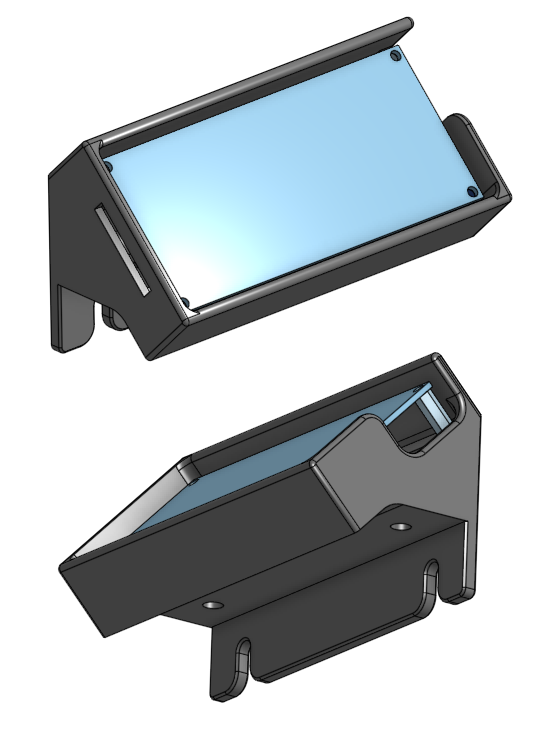
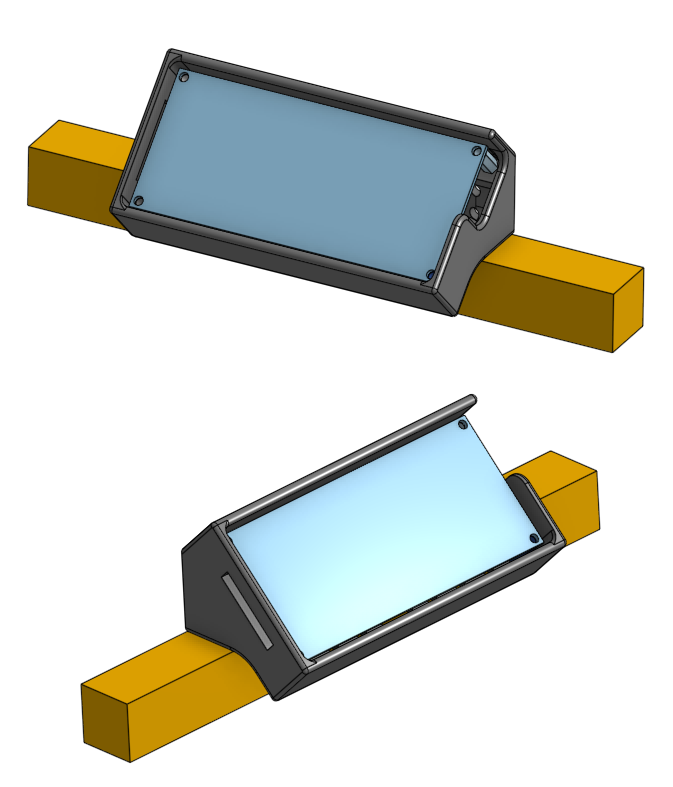
updated tft24 angled box

diff --git a/other_pages/optional3dprintedparts.md b/other_pages/optional3dprintedparts.md
@@ -120,11 +120,11 @@ This design gives you more room to put junk on to the front of the printer frame
 
 ### Angled TFT24 Box
 
-This is another box for the TFT24 LCD screen. It's angled upwards, and it has openings both sides so both USB drives and SD cards can be used.
+This is another box for the TFT24 LCD screen. It's angled upwards, and it has openings both sides so both USB drives and SD cards can be used. It's mounted using two M5 screws onto any T-slotted aluminum extruded beam. There are holes in the back for cable organization.
 
 ![](../images/other/tft24boxangled.png)
 
-[Link to Model](https://cad.onshape.com/documents/359baba3de4f085c967fb5a9/w/62a7ef2a4414462a5d8bf3e1/e/cdc93c4504e058bfb7a438bf)
+[Link to Model](https://cad.onshape.com/documents/359baba3de4f085c967fb5a9/w/62a7ef2a4414462a5d8bf3e1/e/01292e2455c46df771f8fc86)
 
 ### Duet 2 WiFi Box
 
